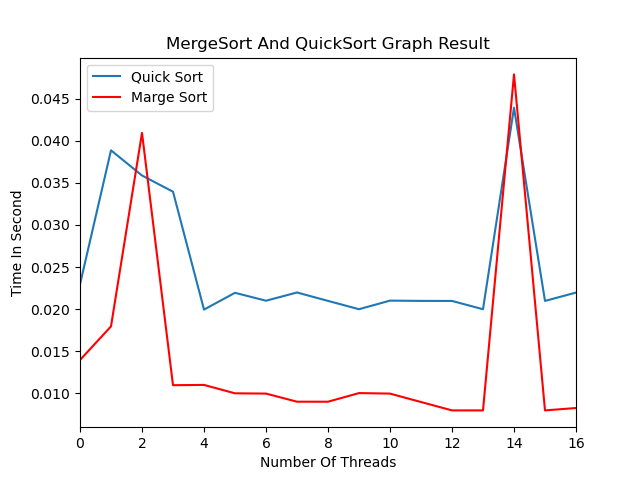
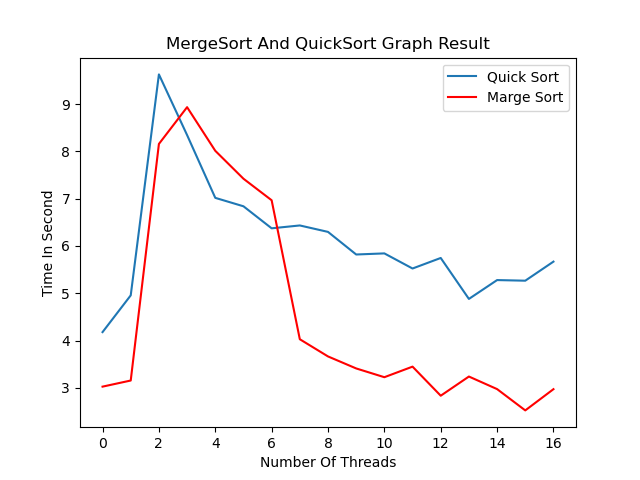
Minor changes

diff --git a/merge_sort_threads.py b/merge_sort_threads.py
@@ -13,14 +13,12 @@ class MergeSortThreads:
     final_sorted_result = []
     main_q = Queue()  # communicate between producer and consumer
     q_run = Queue()  # Flag for the while consumer is running.
-    # q_run.put(1)  # while this queue is not empty the consumer will still running
     thread_list = []
 
     def is_sorted(self, lyst):
         """
         Return whether the argument lyst is in non-decreasing order.
         """
-
         # d for descending  יורד
         if config.SORT_ORDER is 'd':
             for i in range(1, len(lyst)):
@@ -131,20 +129,16 @@ class MergeSortThreads:
         for i in range(index_wait):
             p_evt[i].wait()
 
-        # global q_run
-        #print("Stop all threads", self.q_run.get())  # Raising flag to consumer to break the while loop
         return
 
     # the Consumer thread consumes items if there are any.
     def consumer(self, in_q):  # removed lock parameter, using lock from above
-        # global q_run
 
         while not self.q_run.empty():  # Thread is running until the queue is empty
 
             if not in_q.empty():
                 data, p_evt = in_q.get()
                 if data == -1:  # In case the job is done but this thread is still waiting for data on queue
-                    #print("-1 Break")
                     break
                 if len(data) == 0:  # in case that the list is empty
                     p_evt.set()  # Thread signaling to the producer that is done and waiting for another chunk
@@ -164,7 +158,6 @@ class MergeSortThreads:
         all_animals = self.create_animal_array()
         file = open('mergesort', 'w')
         # check Sequential time of sort
-        #print('Start sequential:')
         start_sequential = time.time()
         sequential_array = self.merge_sort(all_animals)
         if self.is_sorted(sequential_array) is not True:
@@ -181,7 +174,6 @@ class MergeSortThreads:
             self.q_run = Queue()  # Flag for the while consumer is running.
             self.q_run.put(1)  # while this queue is not empty the consumer will still running
             self.thread_list = []
-
             for _ in range(num_of_threads):
                 thread = Thread(target=self.consumer, args=(self.main_q,))  # Every thread is running on the consumer program
                 self.thread_list.append(thread)
@@ -193,15 +185,12 @@ class MergeSortThreads:
             if self.is_sorted(self.final_sorted_result) is not True:
                 print("array not sorted :(")
                 return None
-            file.write("{0} {1} \n".format(num_of_threads,elapsed_parallel))
-
+            file.write("{0} {1} \n".format(num_of_threads, elapsed_parallel))
 
             # merge sub-lists
             while self.final_q.qsize() > 1:
                 self.merge_multiple(self.final_q, self.final_q.get(), self.final_q.get())
             final_sorted_result = self.final_q.get()
-
-
 
             for t in self.thread_list:  # Running on the thread list and checking who is still alive
                 while t.isAlive():  # if the current thread is alive, probably it's because he's still waiting on queue

diff --git a/quick_sort_threads.py b/quick_sort_threads.py
@@ -9,6 +9,10 @@ import config
 class QuickSortThreads:
 
     lock = Lock()
+    final_results = []  # final sorted list
+    main_q = Queue()  # communicate between producer and consumer
+    q_run = Queue()  # Flag for the while consumer is running.
+    thread_list = []
 
     def chunks(self, lst, n):
         """Yield successive n-sized chunks from lst."""
@@ -58,7 +62,7 @@ class QuickSortThreads:
         # dividing the list to chunks by pack
         # every thread gets list(chunk) and event
 
-        pivot=lyst[random.randint(0, len(lyst) - 1)]
+        pivot = lyst[random.randint(0, len(lyst) - 1)]
         if config.SORT_ORDER is 'a':
             left_side = [x for x in lyst if x < pivot]
         elif config.SORT_ORDER is 'd':
@@ -136,12 +140,11 @@ class QuickSortThreads:
                 # if the flag is raised and the queue is empty the threads is break out
                 break
 
-
     def quicksort(self, lyst):
 
         if len(lyst) <= 1:
             return lyst
-        pivot=lyst[random.randint(0, len(lyst) - 1)]
+        pivot = lyst[random.randint(0, len(lyst) - 1)]
         if config.SORT_ORDER is 'a':
             return self.quicksort([x for x in lyst if x < pivot]) + [pivot] + self.quicksort([x for x in lyst if x >= pivot])
         elif config.SORT_ORDER is 'd':
@@ -169,7 +172,6 @@ class QuickSortThreads:
             self.q_run = Queue()  # Flag for the while consumer is running.
             self.q_run.put(1)  # while this queue is not empty the consumer will still running
             self.thread_list = []  # list of threads.
-
             for _ in range(num_of_threads):
                 thread = Thread(target=self.consumer, args=(self.main_q, self.lock))  # Every thread is running on the consumer program
                 self.thread_list.append(thread)
@@ -180,7 +182,6 @@ class QuickSortThreads:
             elapsed_parallel = time.time() - start_parallel
 
             file.write("{0} {1} \n".format(num_of_threads,elapsed_parallel))
-
 
             for t in self.thread_list:  # Running on the thread list and checking who is still alive
                 while t.isAlive():  # if the current thread is alive, probably it's because he's still waiting on queue

diff --git a/main.py b/main.py
@@ -4,11 +4,13 @@ from quick_sort_threads import QuickSortThreads
 from pandas_graph import PandasGraph
 import multiprocessing
 
-def copy_from_file(from_file,f1):
+
+def copy_from_file(from_file, f1):
     with open(from_file) as f:
-            for line in f:
-                f1.write(line)
+        for line in f:
+            f1.write(line)
     f.close()
+
 
 def sample_of_animals():
     from random import randint
@@ -28,24 +30,25 @@ if __name__ == '__main__':
     file_prompt = open('prompt', 'w')
     file_prompt.write(
         "Animal Array Size: {0}\nSort Order: {1}\nList Priority: {2}\nCPU NUMBER: {3}\n"
-        .format(config.ARRAY_LENGTH, config.SORT_ORDER,config.list, multiprocessing.cpu_count()))
-    file_prompt.write("\nMergeSort:\n")
+        .format(config.ARRAY_LENGTH, config.SORT_ORDER, config.ORDER_FIELDS_LIST, multiprocessing.cpu_count()))
+    file_prompt.write("\nMergeSort:\nNumber of threads | Time (sec):\n")
+    print("Begin Merge sorting...")
     merge_sort = MergeSortThreads()
-    final_list=merge_sort.run()
-    copy_from_file("mergesort",file_prompt)
+    final_list = merge_sort.run()
+    print("Finished Merge")
+    copy_from_file("mergesort", file_prompt)
 
     for i in sample_of_animals():
         file_prompt.write(final_list[i].__str__()+"\n")
-    file_prompt.write("\nQuickSort:\n")
+    file_prompt.write("\nQuickSort:\nNumber of threads | Time (sec):\n")
+    print("Begin Quick sorting...")
     quick_sort = QuickSortThreads()
-    final_list=quick_sort.run()
+    final_list = quick_sort.run()
+    print("Finished Quick")
     copy_from_file("quicksort", file_prompt)
     for i in sample_of_animals():
         file_prompt.write(final_list[i].__str__() + "\n")
     file_prompt.close()
-    print("Finish Program...\nPresenting Results")
+    print("Finished Program\nPresenting Results")
     graph_results = PandasGraph()
     graph_results.run()
-
-
-

diff --git a/animal.py b/animal.py
@@ -1,5 +1,6 @@
 import config
 
+
 class Animal:
     def __init__(self, height, weight, age, num_of_legs, tail):
         self.height = height  # cm
@@ -11,33 +12,31 @@ class Animal:
     # sort order by fields: height->weight->age->num of legs
     # <=
     def __le__(self, other):
-        for att in config.list:
-            if getattr(self,att) < getattr(other, att):
+        for att in config.ORDER_FIELDS_LIST:
+            if getattr(self, att) < getattr(other, att):
                 return True
-            elif getattr(self,att) > getattr(other, att):
+            elif getattr(self, att) > getattr(other, att):
                 return False
 
     # >=
     def __ge__(self, other):  # >=
-        for att in config.list:
-            if getattr(self,att) > getattr(other, att):
+        for att in config.ORDER_FIELDS_LIST:
+            if getattr(self, att) > getattr(other, att):
                 return True
             elif getattr(self, att) < getattr(other, att):
                 return False
 
     # <
     def __lt__(self, other):  # <
-        for att in config.list:
+        for att in config.ORDER_FIELDS_LIST:
             if getattr(self, att) < getattr(other, att):
                 return True
             elif getattr(self, att) > getattr(other, att):
                 return False
 
-
-
     # >
     def __gt__(self, other):  # >
-        for att in config.list:
+        for att in config.ORDER_FIELDS_LIST:
             if getattr(self, att) > getattr(other, att):
                 return True
             elif getattr(self, att) < getattr(other, att):
@@ -46,5 +45,3 @@ class Animal:
     def __repr__(self):
         return '(height: {0}, weight: {1}, age: {2}, num_of_legs: {3}, tail: {4})'. \
             format(self.height, self.weight, self.age, self.num_of_legs, self.tail)
-
-    # sort order by fields: height->weight->age->num of legs

diff --git a/config.py b/config.py
@@ -1,8 +1,9 @@
-
-ARRAY_LENGTH = 1000
+# define array size
+ARRAY_LENGTH = 100000
 
 # a for ascending  עולה
 # d for descending  יורד
 SORT_ORDER = 'a'
 
-list = ['num_of_legs','age','weight','height'] #Order the list by priority, The first element is the first priority
+# Order the list by priority, The first element is the first priority
+ORDER_FIELDS_LIST = ['num_of_legs', 'age', 'weight', 'height']

diff --git a/pandas_graph.py b/pandas_graph.py
@@ -1,6 +1,7 @@
 import matplotlib.pyplot as plt
 import pandas as pd
 
+
 class PandasGraph:
 
     def run(self):
